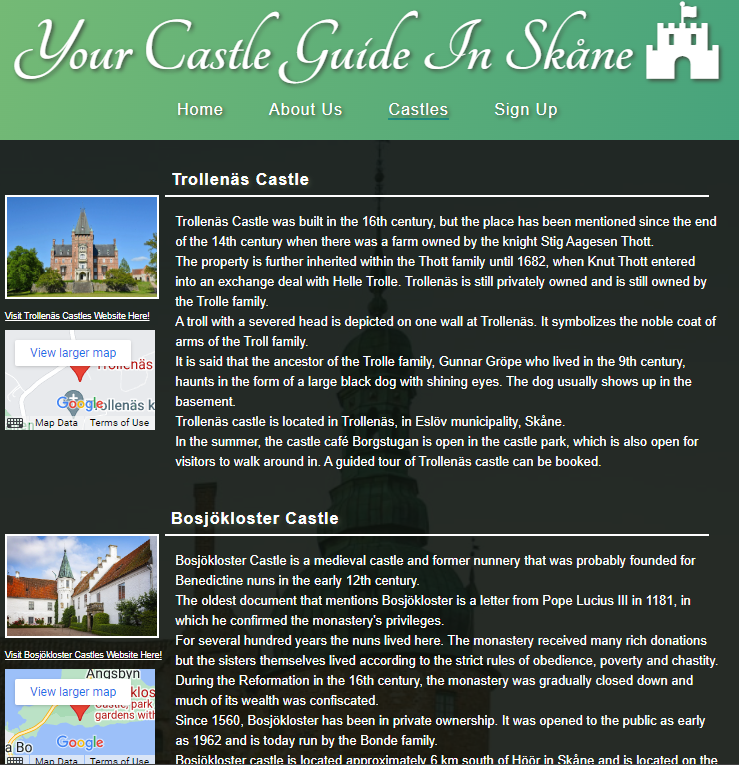
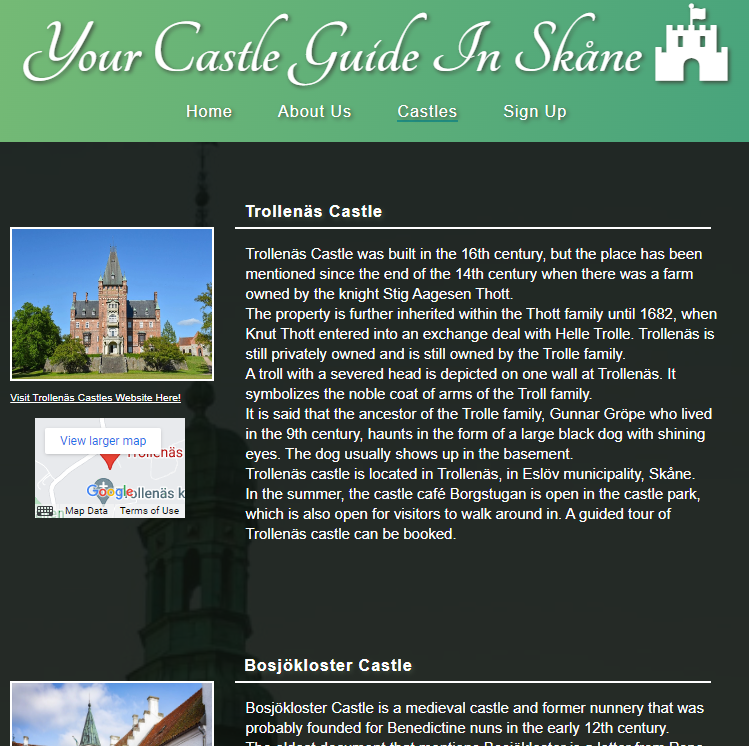
Update castle images

diff --git a/assets/css/style.css b/assets/css/style.css
@@ -497,8 +497,9 @@ h4 {
 
     .castle-image-div {
         position: unset;
-        padding-left: 38%;
+        padding-left: 0;
         margin-top: 50px;
+        text-align: center;
     }
 
     .castle-website-new {
@@ -516,7 +517,7 @@ h4 {
     .castle-heading-new {
         font-size: 18px;
         text-align: center;
-        margin-top: 30px;
+        padding-left: 0;
     }
 
     .castle-text-new {
